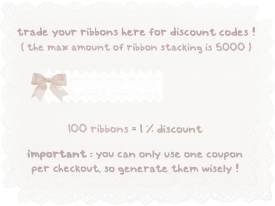
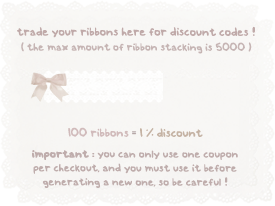
+

Changed region(s): [[0.0873, 0.7282, 0.9018, 0.932], [0.2327, 0.5825, 0.7564, 0.6699]]

diff --git a/share.html b/share.html
@@ -181,7 +181,7 @@ position: absolute; left: 535px; top: 170px;
 overflow: hidden; z-index: 5; width:85px; height:20px;
 background: transparent; resize: none; padding:5px; outline:none;
 border: 0px; cursor: url(./img/cursorwrite.png), progress; color: #9e8e8e;
-font-family: Calibri; font-size: 11px; letter-spacing:1px; line-height:15px;"></input>
+font-family: Calibri; font-size: 11px; letter-spacing:1px; line-height:15px;" readonly></input>
 
 <a><img id="coupon-button" style="position: absolute; display: block;
 	left: 640px;
@@ -195,7 +195,7 @@ left: 641px; top: 170px;
 overflow: hidden; z-index: 5;width: 65px; height:20px;
 background: transparent; resize: none; padding:5px; outline:none;
 border: 0px; cursor: url(./img/cursorwrite.png), progress; color: #fff; font-weight:bold;
-font-family: Calibri; font-size: 11px; letter-spacing:1px; line-height:15px;"></input>
+font-family: Calibri; font-size: 11px; letter-spacing:1px; line-height:15px;" readonly></input>
 
 <img id="coupon-button" style="position: absolute; display: none;
 	left: 640px;
@@ -204,6 +204,12 @@ overflow-y:hidden;
 overflow-x:hidden;
 z-index: 3;" src="./img/sharecoupon2.png" onclick="sendForm();">
 
+<input id="not-enough" maxlength="30" value="not enough ribbons !"
+style="position: absolute; left: 540px; top: 197px;
+overflow: hidden; z-index: 5; width:158px; height:20px;
+background: transparent; resize: none; padding:5px; outline:none;
+border: 0px; cursor: url(./img/cursorwrite.png), progress; color: #ad8c8c;
+font-family: Calibri; font-size: 10px; letter-spacing:1px; line-height:15px;" readonly></input>
 
 </div>
 
